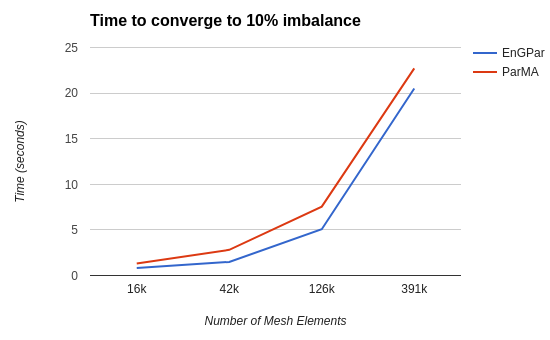
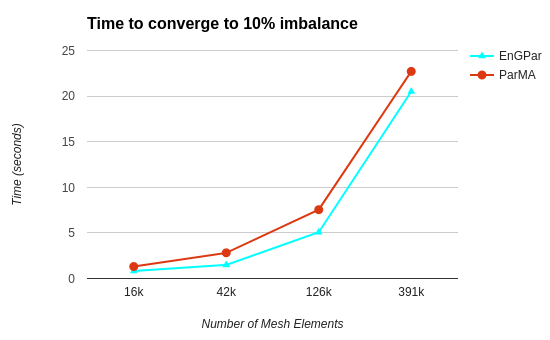
Slight modifications to the images for better printing quality

diff --git a/diamog_mane_6680_final/final.tex b/diamog_mane_6680_final/final.tex
@@ -13,7 +13,7 @@
 \usepackage{url}
 \usepackage{titling}
 
-\setlength{\droptitle}{-11em}
+\setlength{\droptitle}{-2em}
 
 \title{EnGPar - Partitioning and Load Balancing for Relation Based Data}
 
@@ -26,8 +26,9 @@
 \maketitle
 
 \section{Introduction}
-A main problem in parallel applications is ensuring a even distribution of load across all the processors. While some applications can naively distribute data evenly, many applications have complicated designs that require load balancing procedures that partition in order to minimize both the computation and communication costs. For finite element programs that utilize unstructured meshes, there exists a complicated structure of computation and communicative costs that depend on where degrees of freedoms are defined and the type of shape functions being used. Thus any load balancing technique must offer a diverse set of procedures to target the different levels of imbalance relative to the finite element method being applied. To target the different load balancing requirements we propose utilizing an expanded graph structure, N-graph \cite{EnGPar2015proposal}, that can represent multiple levels of relations simultaneously coupled with a set of partitioning techniques and diffusive load balancing strategies.
-This paper provides an overview of the N-graph structure and the framework for diffusive load balancing in EnGPar. Some examples of partitioning strategies are given in section 2. Section 3 describes the details of the N-graph structure and some components needed for use in diffusive load balancing. Then the framework and some details on diffusive load balancing is given in Section 4. Section 5 and 6 provide an experiment of the diffusive load balancing technique. Finally, Section 7 discusses some further work in this topic to be explored.
+A main problem in parallel applications is ensuring an even distribution of load across all the processors. While some applications can naively distribute data evenly, many applications have complicated designs that require load balancing procedures that partition in order to minimize both the computation and communication costs. For finite element programs that utilize unstructured meshes, there exists a complicated structure of computation and communicative costs that depend on where degrees of freedoms are defined and the type of shape functions being used. Thus any load balancing technique must offer a diverse set of procedures to target the different levels of imbalance relative to the finite element method being applied. To target the different load balancing requirements we propose utilizing an expanded graph structure, N-graph \cite{EnGPar2015proposal}, that can represent multiple levels of relations simultaneously coupled with a set of partitioning techniques and diffusive load balancing strategies.
+
+This paper provides an overview of the N-graph structure and the framework for diffusive load balancing in EnGPar. Some examples of partitioning strategies are given in Section 2. Section 3 describes the details of the N-graph structure and some components needed for use in diffusive load balancing. Then the framework and some details on diffusive load balancing is given in Section 4. Section 5 and 6 provide an experiment of the diffusive load balancing technique. Finally, Section 7 discusses some further work in this topic to be explored.
 
 \section{Related Works}
 \subsection{Geometric Partitioning}
@@ -51,6 +52,7 @@ EnGPar interfaces to the different partitioning procedures through a graph abstr
     from $e$ to $v$ where $e \in E_i$ and $v \in V$.
 \end{itemize}
 Optionally, the vertices and edges may be assigned with weights to better control partitioning. Vertices may also have spacial relations in the form of a coordinate vector $c$.
+
 
 \begin{figure}[!ht]
   \centering
